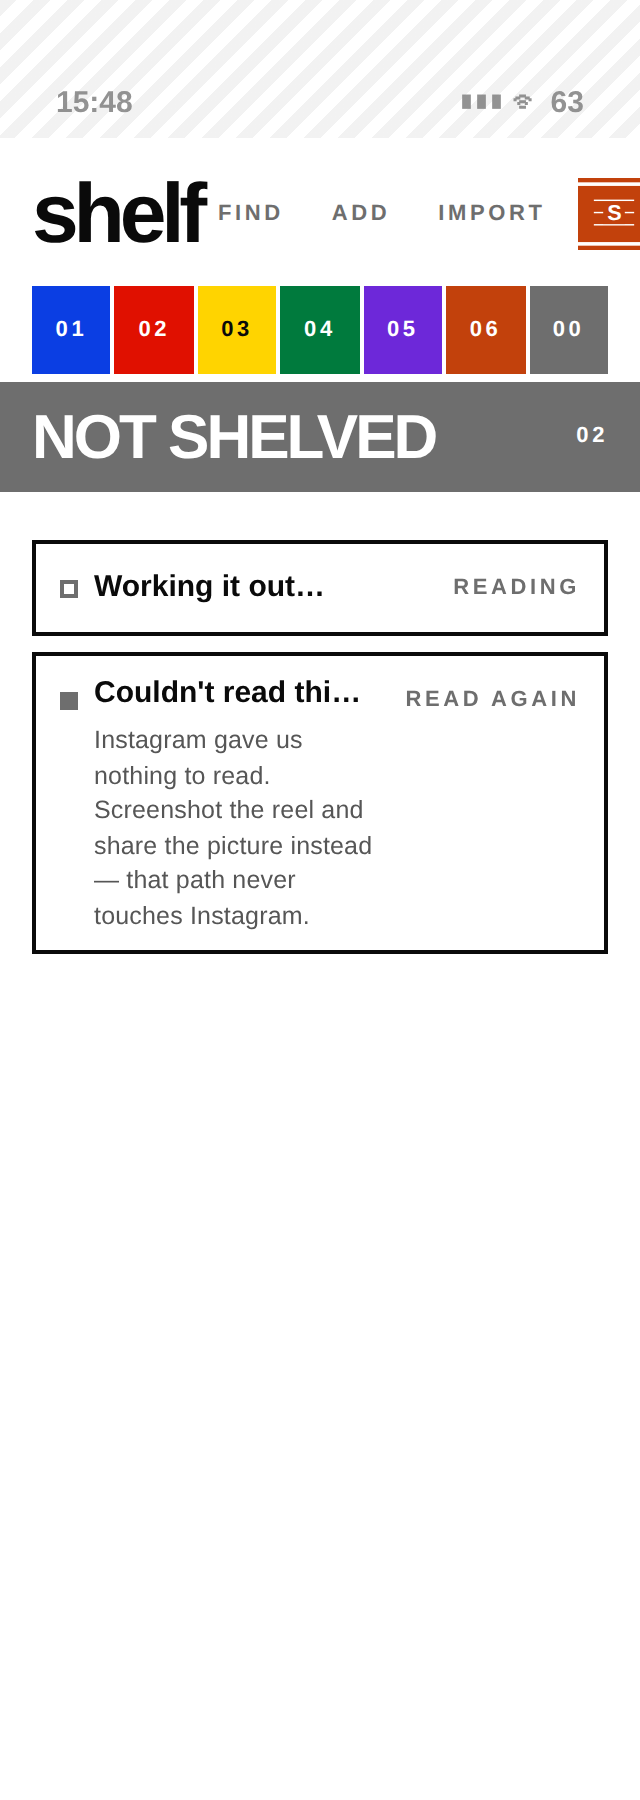
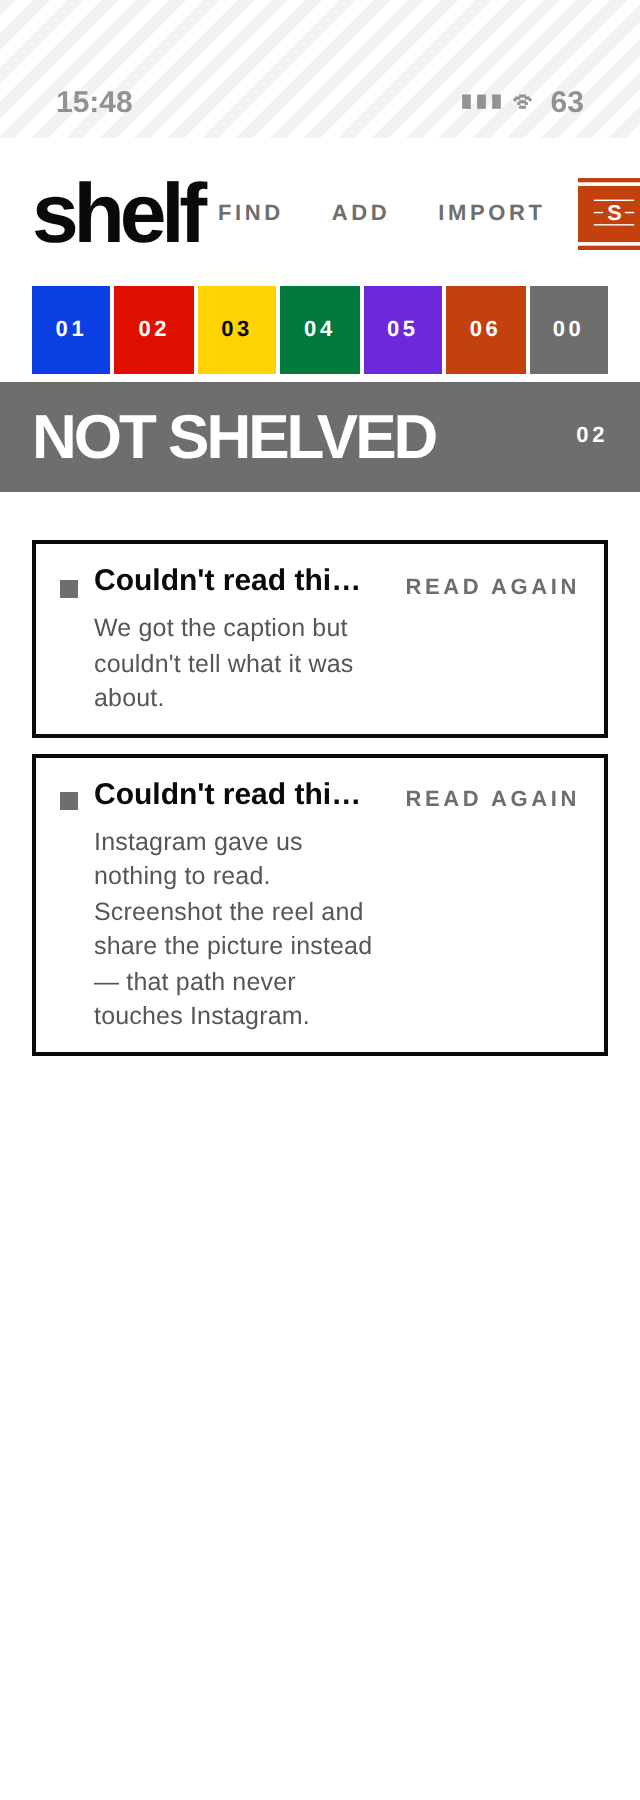
Nothing may still be "working it out" at launch
Reported from the phone: everything stuck on "Working it out…". Not the
server — health was green that day on 7c3b916 with Claude, TMDB and OSM all
up. The state was a dead end by construction.

A share becomes a pending row BEFORE any network, which is right: the row is
the receipt. drainShares then resolves it, and on failure writes `unread` with
the reason — the state that carries a Read again button. But a resolve that
neither succeeds NOR fails writes nothing at all, and that is the common case,
not the rare one: iOS suspends the app the moment you switch away, so a drain
mid-flight simply stops. No error, no write, row unchanged.

The next launch reads the QUEUE, which is empty — those shares were taken off
it. Nothing anywhere looked at the rows. And the pending branch of PileRow
rendered TEXT rather than a control, so the row could not be opened, retried
or binned. The only escape was deleting the app.

THE RULE: a process that has just started cannot be in the middle of anything.
Every pending row seen at launch was interrupted, by definition — no timeout to
guess at, no clock to consult. src/resume.js decides what happens to each:
links are read again, bounded to six a launch; a screenshot is EXPLAINED
instead, because the picture it came from lived in the App Group container and
that is emptied after every drain. Neither outcome leaves a row claiming to be
busy, and the overflow past six is explained rather than silently dropped.
[…]

Changed region(s): [[0.0625, 0.3111, 0.9375, 0.5911], [0.9375, 0.5289, 0.9688, 0.5911], [0.0312, 0.5289, 0.0625, 0.5911]]

diff --git a/app/App.tsx b/app/App.tsx
@@ -32,6 +32,7 @@ import {
   type ListName, LISTS,
 } from "./src/api";
 import { resolveScreenshot, forgetSharedImages } from "./src/screenshots";
+import { resumePlan, whyStopped } from "./src/resume.js";
 import {
   load as loadShelf, save as saveShelf, upsert, patch, remove as removeItem,
   rescue as rescueShelf, rescuable,
@@ -212,6 +213,59 @@ export default function App() {
     return cur;
   }, [commit]);
 
+  /**
+   * Read one shared LINK into the row that is already on the shelf.
+   *
+   * One copy, three callers: the button on an unread row, the launch resume
+   * below, and the foreground resume. They were the same fifteen lines written
+   * out twice, which is how two of them drift apart and only one gets a fix.
+   */
+  const readLink = useCallback(async (cur: Shelf, item: Item): Promise<Shelf> => {
+    try {
+      const got = await resolveLink(item.source_url as string, item.list as ListName, cur.profile.home_city);
+      const first = got.items[0];
+      return first
+        ? patch(cur, item.id, { ...first, status: "filed", caption: keepCaption(first),
+                                resolved_at: new Date().toISOString(), error: null })
+        : patch(cur, item.id, { status: "unread", resolver: got.resolver, resolved_at: new Date().toISOString() });
+    } catch (e) {
+      return patch(cur, item.id, { status: "unread", error: (e as Error).message });
+    }
+  }, []);
+
+  /**
+   * NOTHING MAY STILL BE "WORKING IT OUT" AT LAUNCH.
+   *
+   * Reported as "why is everything stuck on working it out", and it was: iOS
+   * suspends the app the moment you switch away, so a drain that is mid-flight
+   * simply stops. No error is thrown, so nothing is written, and the row keeps
+   * saying it is working on it — forever, with no button on it, because the
+   * pending branch of the row is text rather than a control.
+   *
+   * A process that has just started cannot be in the middle of anything, so
+   * every pending row seen here was interrupted. src/resume.js decides which
+   * can be read again and which can only be explained; neither outcome leaves
+   * a row claiming to be busy. Runs at launch AND on returning to the app,
+   * which is the moment the interruption actually happened.
+   */
+  const resumePending = useCallback(async (base: Shelf): Promise<Shelf> => {
+    const { retry: again, giveUp } = resumePlan(base.items);
+    if (!again.length && !giveUp.length) return base;
+
+    let cur = base;
+    // The explanations are written FIRST and committed together: they need no
+    // network, so a row that can never finish should stop lying immediately
+    // rather than after six slow requests.
+    for (const it of giveUp) cur = patch(cur, it.id, { status: "unread", error: whyStopped(it) });
+    if (giveUp.length) await commit(cur);
+
+    for (const it of again) {
+      cur = await readLink(cur, it as Item);
+      await commit(cur);
+    }
+    return cur;
+  }, [commit, readLink]);
+
   // FIRST LAUNCH. Read the file, then take anything the extension left.
   //
   // Draining still happens on a shelf that would not open: a share arriving
@@ -227,7 +281,8 @@ export default function App() {
         const back = await rescuable().catch(() => null);
         setCanRestore(back?.items.length ?? 0);
       }
-      await drainShares(loaded);
+      const drained = await drainShares(loaded);
+      await resumePending(drained);
     })();
     // drainShares is stable; re-running this on every render would re-drain.
     // eslint-disable-next-line react-hooks/exhaustive-deps
@@ -276,10 +331,15 @@ export default function App() {
     const sub = AppState.addEventListener("change", (next) => {
       if (next !== "active" || !shelf) return;
       setBusy(true);
-      drainShares(shelf).finally(() => setBusy(false));
+      // Drain first, then resume: a share made while away is new work, and a
+      // row left mid-flight by THIS suspension is exactly what resumePending
+      // exists for. Coming back to the app is the moment that happens.
+      drainShares(shelf)
+        .then((next) => resumePending(next))
+        .finally(() => setBusy(false));
     });
     return () => sub.remove();
-  }, [shelf, drainShares]);
+  }, [shelf, drainShares, resumePending]);
 
   useEffect(() => {
     if (!flash) return;
@@ -395,18 +455,8 @@ export default function App() {
 
   async function retry(item: Item) {
     if (!shelf || !item.source_url) return;
-    let cur = await commit(patch(shelf, item.id, { status: "pending", error: null }));
-    try {
-      const got = await resolveLink(item.source_url, item.list as ListName, cur.profile.home_city);
-      const first = got.items[0];
-      cur = first
-        ? patch(cur, item.id, { ...first, status: "filed", caption: undefined, error: null,
-                                resolved_at: new Date().toISOString() })
-        : patch(cur, item.id, { status: "unread", resolver: got.resolver });
-    } catch (e) {
-      cur = patch(cur, item.id, { status: "unread", error: (e as Error).message });
-    }
-    await commit(cur);
+    const cur = await commit(patch(shelf, item.id, { status: "pending", error: null }));
+    await commit(await readLink(cur, item));
   }
 
   /** Move it, rename it, note it, bin it. All local, all instant. */
@@ -911,12 +961,19 @@ function PileRow({ item, onAct, onOpen, onRetry, s, c }: {
         <View style={[s.pileSwatch, { backgroundColor: fill, borderColor: pending ? c.inkFaint : fill }]} />
       </View>
       {pending ? (
-        // flex:1 lives HERE, not on pileTitle: the title is now a heading with
-        // a paragraph under it, and a flexed Text inside that column stops the
-        // row from pushing the action to the right-hand edge.
-        <View style={s.pileMain}>
+        // OPENABLE, even while it says it is working. It used to be plain text
+        // with no control anywhere on the row, so a share that got stuck could
+        // not be opened, retried or binned — a dead end you could only escape
+        // by deleting the app. resumePending should mean no row stays here,
+        // and this is the belt to that pair of braces.
+        //
+        // flex:1 lives on the container, not on pileTitle: the title is a
+        // heading with a paragraph under it, and a flexed Text inside that
+        // column stops the row from pushing the action to the right-hand edge.
+        <Press onPress={() => onOpen(item)} containerStyle={s.pileMain} size={TOUCH_MIN}
+               label="Open the one still being read">
           <Text style={s.pileTitle} numberOfLines={1}>Working it out…</Text>
-        </View>
+        </Press>
       ) : (
         <Press onPress={() => onOpen(item)} containerStyle={s.pileMain} size={TOUCH_MIN} label={`Open ${item.title ?? "the one we couldn't read"}`}>
           <Text style={s.pileTitle} numberOfLines={1}>{item.title ?? "Couldn't read this one"}</Text>

diff --git a/app/src/resume.js b/app/src/resume.js
@@ -1,0 +1,72 @@
+// resume.js — what to do, at launch, with a row that says "Working it out…".
+//
+// ── THE BUG THIS FILE EXISTS FOR ────────────────────────────────────────────
+//
+// Reported as "why is everything stuck on working it out". It was, and nothing
+// in the app was ever going to un-stick it.
+//
+// A shared reel becomes a row with `status: "pending"` BEFORE any network
+// happens — that part is deliberate and right: the row is the receipt, so a
+// share is on your shelf even if resolving fails. `drainShares` then resolves
+// each one, and on failure writes `status: "unread"` with the reason, which is
+// the state that carries a "Read again" button.
+//
+// But a resolve that neither succeeds NOR fails leaves the row exactly as it
+// was. And that is the common case, not the rare one: iOS suspends an app the
+// moment you switch away, so sharing six reels, opening shelf, and going back
+// to Instagram after two of them freezes the other four mid-flight. There is
+// no error, so nothing is written. The loop simply stops existing.
+//
+// On the next launch `drainShares` reads the QUEUE — which is empty, because
+// those shares were taken off it — and returns. Nothing looks at the rows. So
+// "Working it out…" is a TERMINAL STATE in practice, on a row that cannot be
+// opened, cannot be retried, and cannot be deleted, because the pending branch
+// of the pile row renders text instead of a button.
+//
+// ── THE RULE ────────────────────────────────────────────────────────────────
+//
+// A PROCESS THAT HAS JUST STARTED CANNOT BE IN THE MIDDLE OF ANYTHING. Every
+// pending row seen at launch was interrupted, by definition — there is no
+// timeout to guess at and no clock to consult. So each one is either picked up
+// again or given a reason, and neither outcome is "leave it saying it is
+// working on it".
+//
+// Pure, and separate from App.tsx, so the decision can be asserted with
+// fixtures instead of by killing an app at the right moment on a phone.
+
+/** A screenshot's file lives in the App Group container, which is emptied
+ *  after every drain. Its path is not something a later launch can re-read. */
+const fromLink = (it) => typeof it.source_url === "string" && /^https?:\/\//i.test(it.source_url);
+
+/**
+ * Split the pending rows into the ones worth trying again and the ones that
+ * can only be explained.
+ *
+ * `max` bounds the retries because a launch is not the place to make thirty
+ * network calls: the rest are handed the same honest reason as the give-ups
+ * and keep their "Read again" button, which is a person's own retry.
+ */
+export function resumePlan(items, { max = 6 } = {}) {
+  const pending = (items || []).filter((it) => it && it.status === "pending");
+  const retry = [], giveUp = [];
+  for (const it of pending) {
+    if (fromLink(it) && retry.length < max) retry.push(it);
+    else giveUp.push(it);
+  }
+  return { pending, retry, giveUp };
+}
+
+/**
+ * What a given-up row says. It has to state what happened AND what to do,
+ * because the row it lands on carries a button that does exactly that.
+ *
+ * §8: never leave somebody guessing. "Reading was interrupted" is a fact;
+ * "Read again" is the way out; and a screenshot says something different
+ * because for a screenshot there is genuinely no way back — the picture it was
+ * made from is gone, and offering to re-read it would be a button that fails.
+ */
+export function whyStopped(item) {
+  return fromLink(item)
+    ? "Reading this was interrupted — tap Read again"
+    : "Reading this screenshot was interrupted, and the picture it came from is no longer here. Import it again from your photos.";
+}

diff --git a/HANDOVER.md b/HANDOVER.md
@@ -399,6 +399,42 @@ re-run the "Web app" workflow. The build itself is green up to that step.
 that is the design, and it is the first thing to say to anybody who asks why
 their books are not there.
 
+### "Why is everything stuck on working it out" (2026-08-17)
+
+Reported from the phone. **Not the server** — health that day was green on
+`7c3b916` with Claude, TMDB and OSM all up. It was the app, and the state was a
+dead end by construction:
+
+- A share becomes a row with `status: "pending"` BEFORE any network. Right, and
+  deliberate: the row is the receipt.
+- `drainShares` resolves each one. On failure it writes `status: "unread"` with
+  the reason, which is the state that carries a **Read again** button.
+- **A resolve that neither succeeds nor fails writes nothing at all.** iOS
+  suspends the app the moment you switch away, so a drain that is mid-flight
+  just stops. No error, no write, row unchanged.
+- The next launch reads the QUEUE, which is empty — those shares were taken off
+  it. **Nothing anywhere looked at pending rows.**
+- And the pending branch of `PileRow` rendered TEXT, not a control: the row
+  could not be opened, retried or binned. The only escape was deleting the app.
+
+**Fixed** by `app/src/resume.js` + `resumePending()` in App.tsx, on the rule
+that a process which has just started cannot be in the middle of anything —
+every pending row seen at launch was interrupted. Links are read again (bounded
+to 6 a launch); a screenshot is explained instead, because the picture it came
+from was in the App Group container and that is emptied after every drain.
+Neither outcome leaves a row claiming to be busy. It runs at launch AND on
+returning to the foreground, which is when the interruption actually happens.
+The pending row is also openable now, as a belt to those braces.
+
+`node app/resume-selftest.mjs`, in `npm run preflight` and `npm run selftest`.
+Probed three ways — drop the overflow, offer a retry for a screenshot, touch
+filed rows — each fails the suite.
+
+**The workaround on a build that does not have this yet:** re-share the same
+reel from Instagram. `idFor(source_url)` is deterministic and `upsert` merges
+by id (keeping your note), so it lands on the SAME row and resolves it. Then
+leave the app open until the rows finish.
+
 ## Shipped and verified
 
 | Thing | The check that proves it |
